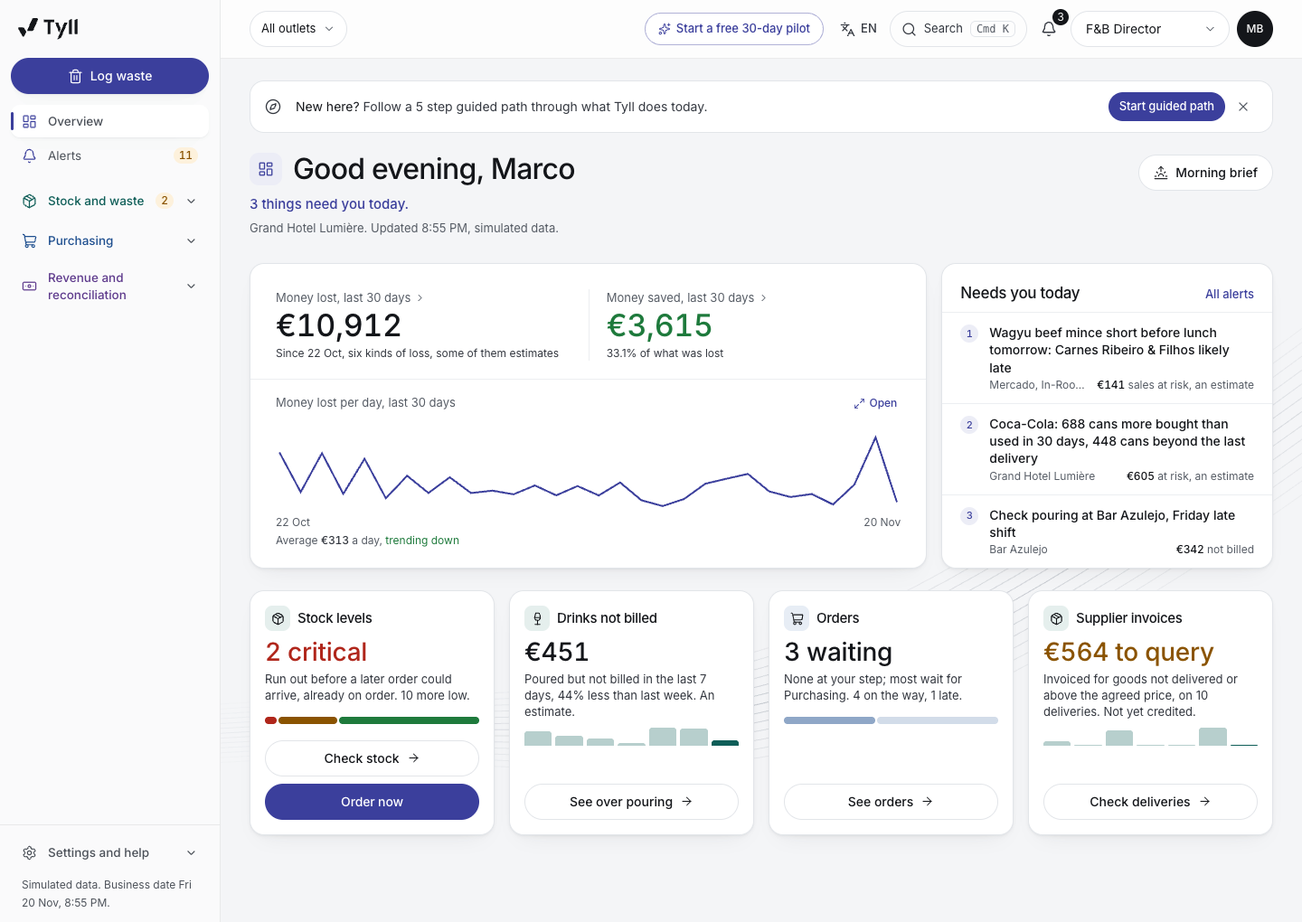
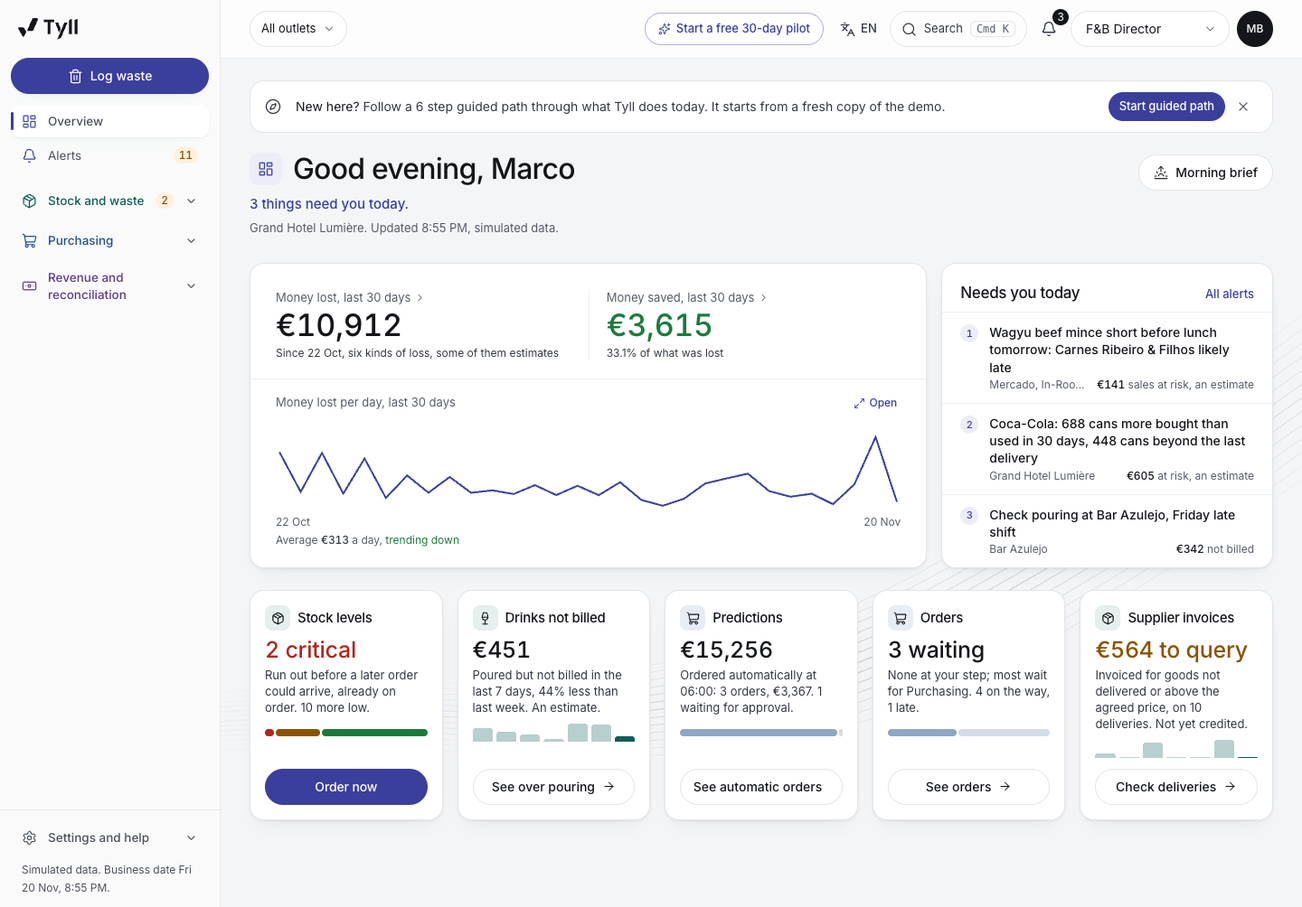
Demo polish: one even row of Overview cards, Recipes and costs in tabs, phone cards for expiry and stock take review, sending before receiving, demo shortcut to approve as the next person, guided path from a fresh copy, new screenshots

diff --git a/src/components/stock/stock-takes.tsx b/src/components/stock/stock-takes.tsx
@@ -18,6 +18,8 @@ const STATUS: Record<StockTakeView["status"], { label: string; tone: "neutral" |
   counting: { label: "Counting", tone: "ink" }, submitted: { label: "Waiting for approval", tone: "warn" }, approved: { label: "Approved, stock adjusted", tone: "pos" }, rejected: { label: "Rejected, stock unchanged", tone: "neg" },
 };
 const signed = (n: number, money: (n: number) => string) => (n > 0 ? `+${money(n)}` : n < 0 ? money(n) : money(0));
+/** A line's value: whole euros, with cents under €10 so a small difference never reads as "−€0". */
+const lineValue = (n: number, currency: string) => { const m = (x: number) => fmtMoney(x, currency as "EUR", Math.abs(n) < 10 ? { decimals: true } : undefined); return n > 0 ? `+${m(n)}` : m(n); };
 
 function StartDrawer({ propertyId, onClose }: { propertyId: string; onClose: () => void }) {
   const router = useRouter();
@@ -104,12 +106,26 @@ function Detail({ id }: { id: string }) {
       </Panel>
       <Panel title="Variance by item" action={<Segmented label="Show" size="sm" value={only} onChange={setOnly} options={[{ value: "diff", label: "Differences" }, { value: "all", label: "Every counted item" }]} />} flush>
         {lines.length === 0 ? <div className="p-6"><EmptyState title="No differences">Every counted item matches the system figure.</EmptyState></div> : (
-          <TableWrap>
+          <>
+          <ul className="divide-y divide-hair md:hidden">
+            {lines.map((l) => { const g = ingredientById[l.ingredientId]; const rv = t.review[l.ingredientId]; return (
+              <li key={`m-${l.ingredientId}`} className={cn("px-4 py-3", rv?.large && "bg-warn-soft/50")}>
+                <div className="flex items-start justify-between gap-3">
+                  <span className="text-[15px] font-medium text-ink">{g.name}{rv?.large && <Badge tone="warn" className="ms-2 !py-0">Large</Badge>}</span>
+                  <span className={cn("num shrink-0 font-medium", l.value < 0 ? "text-neg" : "text-ink")}>{lineValue(l.value, t.currency)}</span>
+                </div>
+                <p className="num mt-0.5 text-[13px] text-graphite">Expected {fmtQty(l.system, g.unit)}, counted {fmtQty(l.counted ?? 0, g.unit)}, {l.diff > 0 ? "+" : l.diff < 0 ? "−" : ""}{fmtQty(Math.abs(l.diff), g.unit)}</p>
+                {rv?.reason && <p className="mt-1 text-[13px] text-graphite">{rv.reason}</p>}
+              </li>
+            ); })}
+          </ul>
+          <TableWrap className="hidden md:block">
             <table className="w-full min-w-[1000px] text-table">
               <thead><tr><Th>Item</Th><Th align="right">Expected</Th><Th align="right">Counted</Th><Th align="right">Difference</Th><Th align="right">Value</Th><Th>Likely reason, to check</Th><Th>Counted by</Th></tr></thead>
-              <tbody>{lines.map((l) => { const g = ingredientById[l.ingredientId]; const ln = t.lines.find((x) => x.ingredientId === l.ingredientId)!; const rv = t.review[l.ingredientId]; return <tr key={l.ingredientId} className={cn(rowClass, rv?.large && "bg-warn-soft/50")}><Td><span className="text-ink">{g.name}</span>{rv?.large && <Badge tone="warn" className="ms-2 !py-0">Large</Badge>}<span className="block text-xs text-steel">{l.group}</span></Td><Td align="right">{fmtQty(l.system, g.unit)}</Td><Td align="right">{fmtQty(l.counted ?? 0, g.unit)}</Td><Td align="right" className={l.diff < 0 ? "text-neg" : undefined}>{l.diff > 0 ? "+" : l.diff < 0 ? "−" : ""}{fmtQty(Math.abs(l.diff), g.unit)}</Td><Td align="right" className={cn("font-medium", l.value < 0 ? "text-neg" : "text-ink")}>{signed(l.value, money)}</Td><Td className="max-w-[300px] text-[13px] text-graphite">{rv?.reason}</Td><Td className="text-xs text-steel">{ln.by ? personName(ln.by) : ""}{ln.method === "scan" ? ", scanned" : ""}</Td></tr>; })}</tbody>
+              <tbody>{lines.map((l) => { const g = ingredientById[l.ingredientId]; const ln = t.lines.find((x) => x.ingredientId === l.ingredientId)!; const rv = t.review[l.ingredientId]; return <tr key={l.ingredientId} className={cn(rowClass, rv?.large && "bg-warn-soft/50")}><Td><span className="text-ink">{g.name}</span>{rv?.large && <Badge tone="warn" className="ms-2 !py-0">Large</Badge>}<span className="block text-xs text-steel">{l.group}</span></Td><Td align="right">{fmtQty(l.system, g.unit)}</Td><Td align="right">{fmtQty(l.counted ?? 0, g.unit)}</Td><Td align="right" className={l.diff < 0 ? "text-neg" : undefined}>{l.diff > 0 ? "+" : l.diff < 0 ? "−" : ""}{fmtQty(Math.abs(l.diff), g.unit)}</Td><Td align="right" className={cn("font-medium", l.value < 0 ? "text-neg" : "text-ink")}>{lineValue(l.value, t.currency)}</Td><Td className="max-w-[300px] text-[13px] text-graphite">{rv?.reason}</Td><Td className="text-xs text-steel">{ln.by ? personName(ln.by) : ""}{ln.method === "scan" ? ", scanned" : ""}</Td></tr>; })}</tbody>
             </table>
           </TableWrap>
+          </>
         )}
         <Note className="px-6 py-4">A difference is something to check: a delivery not recorded, waste not logged, a recipe that does not match, or stock that left the store. It is not proof of how it happened.</Note>
       </Panel>

diff --git a/src/components/shell/early-access.tsx b/src/components/shell/early-access.tsx
@@ -33,9 +33,9 @@ export function WhatsNew({ open, onClose }: { open: boolean; onClose: () => void
 export const GUIDED_PATH = [
   { href: "/forecast", userId: "u-fnb", title: "Predictions", text: "What to order before it runs out, worked out by Tyll's own model from sales, bookings, events and hotel occupancy, with the reasoning beside every quantity. No AI chooses a quantity. Deliveries likely to come too late show here too." },
   { href: "/stock", userId: "u-chef", title: "Critical stock, then Order now", text: "What runs out before a later order could arrive. Items already on this morning's order say On order; for a low item, press Order now: the suggested quantity from the usual supplier, sent for approval." },
-  { href: "/forecast?tab=approvals", userId: "u-buy", title: "Approval, sending and the supplier's answer", text: "Approve an order as purchasing; the controller and the F&B director sign their steps. Once fully approved it goes to the supplier on its own, by email or its ordering system. Douro Cellars' system times out once and a retry is safe; Mercearia Lusa answers with less chocolate, for you to accept." },
+  { href: "/forecast?tab=approvals", userId: "u-buy", title: "Approval, sending and the supplier's answer", text: "Open an order waiting for approval and approve it as purchasing; \"Approve as\" signs the next steps as the controller and the F&B director, in the demo only. Once fully approved it goes to the supplier on its own. Douro Cellars' system times out once and a retry is safe; Mercearia Lusa answers with less chocolate, for you to accept." },
   { href: "/stock?tab=takes", userId: "u-fnb", title: "Stock count review", text: "This morning's stock take waits for you: expected against counted, the difference in units and euros, a likely reason for each, large ones highlighted. Approve it, or send it back." },
-  { href: "/stock?tab=recipes", userId: "u-chef", title: "Menu from Simphony", text: "Synced at 06:00: two new dishes, a price change and a dish taken off. Check the suggested recipe for a new dish and confirm it. Until then it carries a standard cost." },
+  { href: "/stock?tab=recipes&view=new", userId: "u-chef", title: "Menu from Simphony", text: "Synced at 06:00: two new dishes, a price change and a dish taken off. Check the suggested recipe for a new dish and confirm it. Until then it carries a standard cost." },
   { href: "/stock?tab=expiry", userId: "u-chef", title: "Tonight's special", text: "Sea bass from a cancelled lunch expires tomorrow. Make it tonight's special, move it to another outlet, or log it as waste: the restaurant manager is told." },
 ] as const;
 
@@ -46,8 +46,11 @@ const read = (): string | null => { try { return localStorage.getItem(KEY); } ca
 const write = (s: PathState) => { try { if (s === null) localStorage.removeItem(KEY); else localStorage.setItem(KEY, JSON.stringify(s)); } catch { /* private window */ } listeners.forEach((l) => l()); };
 const parse = (raw: string | null): PathState => { try { return raw ? JSON.parse(raw) : null; } catch { return null; } };
 
-/** Starts (or restarts) the guided path from its first stop. */
-export function startGuidedPath() {
+/** Starts (or restarts) the guided path from its first stop. From the Overview's offer it starts on a fresh copy of the
+ * demo, so every story is where it starts: the orders and the stock take waiting, the new dishes and the sea bass still to
+ * decide. From Help it keeps what the visitor has done. */
+export async function startGuidedPath(fresh = false) {
+  if (fresh) await api("/api/demo/reset", { method: "POST", body: { scope: "all", confirm: true } }).catch(() => undefined);
   return openStep(0);
 }
 
@@ -79,9 +82,9 @@ export function GuidedPath({ offer = false }: { offer?: boolean }) {
     return (
       <div className="no-print mb-5 flex flex-wrap items-center gap-x-4 gap-y-2 rounded-2xl border border-line bg-paper px-4 py-3">
         <Compass size={18} strokeWidth={1.6} className="shrink-0 text-graphite" aria-hidden />
-        <p className="min-w-[200px] flex-1 text-sm text-graphite"><span className="text-ink">New here?</span> Follow a {GUIDED_PATH.length} step guided path through what Tyll does today.</p>
+        <p className="min-w-[200px] flex-1 text-sm text-graphite"><span className="text-ink">New here?</span> Follow a {GUIDED_PATH.length} step guided path through what Tyll does today. It starts from a fresh copy of the demo.</p>
         <span className="flex items-center gap-1">
-          <Button size="sm" variant="primary" onClick={() => go(0)}>Start guided path</Button>
+          <Button size="sm" variant="primary" onClick={() => void startGuidedPath(true)}>Start guided path</Button>
           <button type="button" onClick={close} aria-label="Close the guided path offer" className="rounded-full p-2 text-steel hover:bg-mist hover:text-ink"><X size={16} /></button>
         </span>
       </div>

diff --git a/src/components/forecast/approvals.tsx b/src/components/forecast/approvals.tsx
@@ -19,6 +19,9 @@ import { type Queue, inQueue, openingQueue } from "@/lib/domain/order-queues";
 import { CHANNEL_LABEL, SEND_LABEL, sendKey, sendState } from "@/lib/domain/dispatch";
 import { MATCH_FLAG, PO_STATUS, orderTotals, outstanding, packsText, poStatus } from "@/lib/domain/procurement";
 
+/** Who the demo shortcut approves as, for each step (the public demo's people). */
+const SIGNER: Partial<Record<RequestStatus, string>> = { purchasing: "Nadia Rahman, purchasing", accounting: "Priya Raman, financial controller", fnb: "Marco Bellini, F&B director", manager: "the general manager" };
+
 export const STATUS: Record<RequestStatus, { label: string; tone: "neutral" | "warn" | "pos" | "neg" | "ink" }> = {
   draft: { label: "Draft", tone: "neutral" },
   purchasing: { label: "Waiting for purchasing", tone: "warn" },
@@ -455,7 +458,12 @@ function RequestView({ id, base }: { id: string; base: string }) {
       <div className="flex flex-wrap items-center gap-3">
         <Button variant="ghost" size="sm" onClick={() => router.push(base)}><ArrowLeft size={15} /> All requests</Button>
       </div>
-      {step ? <NextStep step={step} /> : waitingFor && <p role="status" className="rounded-panel border border-line bg-cloud px-5 py-3 text-sm text-graphite"><span className="font-medium text-ink">{waitingFor}.</span> Nothing is needed from you now; you will be notified of the decision.</p>}
+      {step ? <NextStep step={step} /> : waitingFor && (
+        <div role="status" className="flex flex-wrap items-center justify-between gap-3 rounded-panel border border-line bg-cloud px-5 py-3 text-sm text-graphite">
+          <p><span className="font-medium text-ink">{waitingFor}.</span> Nothing is needed from you now; you will be notified of the decision.</p>
+          {data.demoShortcut && <Button size="sm" disabled={busy} onClick={() => void run(`/api/purchasing/${r.id}`, { action: "demo-approve" }, `Approved as ${SIGNER[r.status] ?? "the next person"} (demo shortcut).`)}>Approve as {SIGNER[r.status] ?? "the next person"} (demo)</Button>}
+        </div>
+      )}
       <Panel
         title={<span className="flex flex-wrap items-center gap-3"><span className="num">{r.id}</span><OrderBadge r={r} />{r.poNumber && <Badge>{r.poNumber}</Badge>}{r.auto && <Badge tone="accent">Automatic</Badge>}</span>}
         description={`${where(r)}, ${propertyById[r.propertyId].name}. ${r.deliveryDate ? `Delivery ${fmtDate(r.deliveryDate, true)}` : `For ${fmtDate(r.period.from, true)}${r.period.to !== r.period.from ? ` to ${fmtDate(r.period.to, true)}` : ""}`}. ${r.auto ? `Created by automatic ordering on ${personName(r.createdBy)}'s rules.` : `Raised by ${personName(r.createdBy)}.`}`}
@@ -547,6 +555,8 @@ function RequestView({ id, base }: { id: string; base: string }) {
         })()}
       </Panel>
 
+      {/* Sending comes before receiving: how and when the order reached the supplier, and the supplier's answer. */}
+      <div id="order-send" className="scroll-mt-24 empty:hidden"><SendPanel d={data} user={user} run={run} busy={busy} /></div>
       <div className="grid grid-cols-1 items-start gap-5 xl:grid-cols-[1fr_1fr]">
         {(reviewing || author || mayReceive) && (
           <div id="order-action" className="scroll-mt-24"><Panel title={author ? "Your request" : mayReceive ? "Record the delivery" : stage === "purchasing" ? "Purchasing review" : stage === "accounting" ? "Accounting review" : stage === "fnb" ? `${data.policy.fnbLabel} approval` : `${data.policy.managerLabel} approval`}>
@@ -597,7 +607,6 @@ function RequestView({ id, base }: { id: string; base: string }) {
           </Panel></div>
         )}
 
-        <div id="order-send" className="scroll-mt-24 empty:hidden"><SendPanel d={data} user={user} run={run} busy={busy} /></div>
         {showMoney && <div id="order-match" className="scroll-mt-24 empty:hidden xl:col-span-2"><MatchPanel d={data} user={user} run={run} busy={busy} /></div>}
         <Receipts r={r} />
         {showMoney && (can(user, "purchase.review") || can(user, "purchase.approveFinance") || can(user, "purchase.approveFnb") || can(user, "purchase.approveManager")) && (

diff --git a/src/components/home/home.tsx b/src/components/home/home.tsx
@@ -5,7 +5,7 @@ import { awaitingDelivery } from "@/lib/domain/procurement";
 import { useAutoOrder, useRequests } from "@/lib/plan-hooks";
 import { featureOn } from "@/lib/features";
 import Link from "next/link";
-import { OrderNowButton } from "@/components/stock/order-now";
+import { OrderNowButton, orderable } from "@/components/stock/order-now";
 import { ArrowRight, ChevronRight, Sunrise } from "lucide-react";
 import { useMemo, useState, type ReactNode } from "react";
 import { MODULE_ICON, MODULE_TONE } from "@/components/theme";
@@ -64,15 +64,22 @@ function Card({ module, title, number, tone, line, cta, href, picture, loading, 
           <div className="space-y-2 pt-2" aria-hidden><Skeleton className="h-8 w-2/3" /><Skeleton className="h-4 w-full" /></div>
         ) : (
           <>
-            <p className={cn("num mt-0.5 whitespace-nowrap text-[24px] font-medium leading-tight tracking-[-0.02em] sm:mt-1.5 sm:text-[28px]", tone ? TONE[tone] : "text-ink")}>{number}</p>
-            <p className="text-[13px] leading-snug text-graphite sm:mt-1 sm:min-h-[2.5em]">{line}</p>
+            <p className={cn("num mt-0.5 whitespace-nowrap text-[24px] font-medium leading-tight tracking-[-0.02em] sm:mt-1.5 sm:text-[28px] xl:text-[25px]", tone ? TONE[tone] : "text-ink")}>{number}</p>
+            <p className="text-[13px] leading-snug text-graphite sm:mt-1 sm:min-h-[3.9em]">{line}</p>
             {picture && <div className="mt-2 hidden sm:block">{picture}</div>}
           </>
         )}
       </div>
-      {/* The whole card opens the page, and the button says where it goes. */}
-      <Link href={href} className={cn(linkButton("secondary"), "shrink-0 px-3 text-[13px] after:absolute after:inset-0 after:rounded-panel after:content-[''] sm:mt-3 sm:w-full sm:px-4 sm:text-sm")}>{cta} <ArrowRight size={15} className="hidden sm:block" aria-hidden /></Link>
-      {action && <div className="relative z-10 shrink-0 sm:mt-2 [&>button]:w-full">{action}</div>}
+      {/* The whole card opens the page, and the button says where it goes. A card with an action of its own (Order now)
+          shows that action in the button's place, so every card has one button at the same height. */}
+      {action ? (
+        <>
+          <Link href={href} aria-label={`${title}: ${cta}`} className="absolute inset-0 rounded-panel focus-visible:outline-2" />
+          <div className="relative z-10 shrink-0 sm:mt-3 [&>button]:w-full [&>button]:sm:h-10">{action}</div>
+        </>
+      ) : (
+        <Link href={href} className={cn(linkButton("secondary"), "shrink-0 px-3 text-[13px] after:absolute after:inset-0 after:rounded-panel after:content-[''] sm:mt-3 sm:w-full sm:px-4 sm:text-sm")}>{cta} <ArrowRight size={15} className="hidden sm:block" aria-hidden /></Link>
+      )}
     </section>
   );
 }
@@ -295,7 +302,7 @@ export function Home() {
           module="stock" title="Stock levels" picture={<Split parts={[{ n: critical.length, className: "bg-neg" }, { n: low.length, className: "bg-warn" }, { n: items.length - critical.length - low.length, className: "bg-pos" }]} />} number={critical.length ? `${critical.length} critical` : "Nothing urgent"} tone={critical.length ? "neg" : "pos"} loading={!plan && loading}
           line={critical.length ? `${critical.length === 1 ? "Runs" : "Run"} out before a later order could arrive${critical.every((i) => i.nextQty === 0 && i.incoming > 0) ? ", already on order" : ""}. ${low.length} more low.` : `${low.length} low and ${items.length - low.length} fine.`}
           cta="Check stock" href="/stock"
-          action={plan ? <OrderNowButton items={[...critical, ...low]} propertyId={plan.propertyId} variant="primary" size="md" /> : undefined}
+          action={plan && can(user, "purchase.create") && orderable([...critical, ...low]).length ? <OrderNowButton items={[...critical, ...low]} propertyId={plan.propertyId} variant="primary" size="md" /> : undefined}
         />
         <Card
           module="drinks" title="Drinks not billed" picture={<Bars values={pourDaily.slice(-7).map((d) => d.value)} />} number={money(lostWeek.drinks, { compact: true })}

diff --git a/src/components/stock/recipes.tsx b/src/components/stock/recipes.tsx
@@ -2,7 +2,8 @@
 import Link from "next/link";
 import { ChevronDown } from "lucide-react";
 import { useState } from "react";
-import { Delta, Note, Panel, TableWrap, Td, Th, cn, rowClass } from "@/components/ui";
+import { Delta, Note, Panel, Skeleton, TableWrap, Tabs, Td, Th, cn, rowClass } from "@/components/ui";
+import { useRouter, useSearchParams } from "next/navigation";
 import { MENU_ITEMS, ingredientById } from "@/lib/data/catalog";
 import { basePriceAt, ingredientCostAt, itemCostAt, recipeBreakdown } from "@/lib/domain/pricing";
 import { useCtx } from "@/lib/hooks";
@@ -12,8 +13,13 @@ import { IngredientPrices, useIngredientPrices } from "./ingredient-prices";
 
 const aed = (n: number) => fmtMoney(n, "EUR", { decimals: true });
 
+const VIEWS = ["recipes", "new", "prices", "modifiers"] as const;
+type View = (typeof VIEWS)[number];
+
 export function Recipes() {
   const ctx = useCtx();
+  const params = useSearchParams();
+  const router = useRouter();
   const [open, setOpen] = useState<string | null>("burger");
   const { menu } = useMenu();
   const recipes = MENU_ITEMS.filter((m) => m.recipe && !menu?.archived[m.id]);
@@ -23,11 +29,28 @@ export function Recipes() {
   const prices = useIngredientPrices();
   const unit = (g: string) => ctx.overrides.find((o) => o.id === g)?.value ?? prices?.prices.find((p) => p.ingredientId === g)?.wac ?? ingredientCostAt(g, DEMO_TODAY, ctx.overrides);
 
+  // One part at a time: the recipes, the new dishes from the till, ingredient prices and modifiers. The address keeps the
+  // part (&view=), so the chef's alert opens straight on the new dishes.
+  const asked = params.get("view");
+  const [picked, setPicked] = useState<View | null>(null);
+  const waiting = menu?.newDishes.filter((d) => d.status === "needs_recipe").length ?? 0;
+  const view: View = picked ?? (VIEWS.includes(asked as View) ? (asked as View) : "recipes");
+  const choose = (v: View) => { setPicked(v); const q = new URLSearchParams(params.toString()); q.set("view", v); router.replace(`/stock?${q.toString()}`, { scroll: false }); };
+
   return (
     <div className="space-y-5">
-    {menu && <MenuSyncLine menu={menu} />}
-    {menu && <NewDishes menu={menu} />}
-    <div className="grid grid-cols-1 items-start gap-5 xl:grid-cols-[1.25fr_1fr]">
+    {menu && <MenuSyncLine menu={menu} onNewDishes={() => choose("new")} />}
+    <Tabs value={view} onChange={choose} tabs={[
+      { value: "recipes", label: "Recipes" },
+      { value: "new", label: "New dishes", ...(waiting ? { count: waiting } : {}) },
+      { value: "prices", label: "Ingredient prices" },
+      { value: "modifiers", label: "Modifiers" },
+    ]} />
+    {view === "new" && (menu ? <NewDishes menu={menu} /> : <Skeleton className="h-48 w-full" />)}
+    {view === "prices" && <IngredientPrices />}
+    {view === "modifiers" && (menu ? <Modifiers menu={menu} /> : <Skeleton className="h-48 w-full" />)}
+    {view === "recipes" && (
+    <div>
       <Panel title="Recipes for the top 20 items" description="Cost per portion at today's ingredient prices, valued at weighted average cost from supplier invoices, against the selling price. Choose a recipe to see what goes into it." flush>
         <TableWrap>
           <table className="w-full min-w-[640px] text-sm">
@@ -78,10 +101,8 @@ export function Recipes() {
         </TableWrap>
         <Note className="px-6 py-4">Shown in the group price list (euros). Each outlet applies its own price level and each property its own cost level, which Menu performance on the Overview takes into account. The other six menu items use a standard cost until their recipes are built.</Note>
       </Panel>
-
-      <IngredientPrices />
     </div>
-    {menu && <Modifiers menu={menu} />}
+    )}
     </div>
   );
 }

diff --git a/src/components/stock/expiring.tsx b/src/components/stock/expiring.tsx
@@ -39,7 +39,23 @@ export function Expiring({ propertyId }: { propertyId: string }) {
           />
           <Panel title="Batches by use-by date" description="The first expiring batch of each item is the one to use first." action={<Segmented label="Within" size="sm" value={days} onChange={setDays} options={[{ value: "1", label: "1 day" }, { value: "2", label: "2 days" }, { value: "3", label: "3 days" }, { value: "7", label: "7 days" }]} />} flush>
             {data.rows.length === 0 ? <div className="p-6"><EmptyState title="Nothing expires in this window">Every batch on the shelf keeps longer.</EmptyState></div> : (
-              <TableWrap>
+              <>
+              {/* On a phone each batch is a card; the table is for wider screens. */}
+              <ul className="divide-y divide-hair md:hidden">
+                {data.rows.map((r) => (
+                  <li key={`m-${r.ingredientId}|${r.batch}|${r.expiry}`} className={cn("px-4 py-3", r.daysLeft < 0 && "bg-neg-soft/40")}>
+                    <div className="flex items-start justify-between gap-3">
+                      <span className="text-[15px] font-medium text-ink">{r.name}</span>
+                      <Badge tone={KIND[r.action.kind].tone}>{KIND[r.action.kind].label}</Badge>
+                    </div>
+                    <p className="mt-0.5 text-[13px] text-graphite"><span className={cn(r.daysLeft < 0 ? "font-medium text-neg" : r.daysLeft <= 1 ? "font-medium text-warn" : "text-ink")}>{when(r.daysLeft)}</span>, {fmtNum(r.left, r.left % 1 ? 1 : 0)} {r.unit}, {money(r.value)}</p>
+                    <p className="text-xs text-steel">Batch <span className="num">{r.batch}</span>. {r.useBy === "label" ? "From the label" : `Received plus ${r.shelfLifeDays} days shelf life`}</p>
+                    <p className="mt-1 text-[13px] text-graphite">{r.action.text}</p>
+                    <ExpiryActions r={r} propertyId={propertyId} />
+                  </li>
+                ))}
+              </ul>
+              <TableWrap className="hidden md:block">
                 <table className="w-full min-w-[920px] text-table">
                   <thead><tr><Th>Item</Th><Th>Batch</Th><Th>Use by</Th><Th align="right">Left</Th><Th align="right">Value</Th><Th>Suggested</Th></tr></thead>
                   <tbody>
@@ -56,6 +72,7 @@ export function Expiring({ propertyId }: { propertyId: string }) {
                   </tbody>
                 </table>
               </TableWrap>
+              </>
             )}
             <Note className="px-6 py-4">Batches come from deliveries: the use-by date recorded on receiving, or the item&rsquo;s shelf life from the delivery day. Stock is used first expiring, first out, so the batches still on the shelf are the ones that expire last. Suggestions follow fixed rules: normal use first, then a transfer to the outlet that uses it most, then a special, then the staff meal. Values at the hotel&rsquo;s valuation method. Simulated data.{data.noBatchItems ? ` ${data.noBatchItems} fresh ${data.noBatchItems === 1 ? "item has" : "items have"} more on the shelf than the recorded batches: check those by hand.` : ""}</Note>
           </Panel>

diff --git a/src/lib/server/purchasing.ts b/src/lib/server/purchasing.ts
@@ -859,6 +859,32 @@ type Decision = "approve" | "changes" | "reject";
  * name keeps the rule, so they may approve it like anyone else; they still sign one step only. */
 const raisedBy = (r: PurchaseRequest, user: User) => r.createdBy === user.id && !r.auto;
 
+/** The person a demo shortcut approves as, for each step: the public demo's purchasing manager, financial controller,
+ * F&B director and general manager. */
+const DEMO_SIGNERS: Record<string, string[]> = { purchasing: ["u-buy"], accounting: ["u-fc"], fnb: ["u-fnb", "u-gm"], manager: ["u-gm"] };
+
+/**
+ * Public demo only: approve the step an order waits at as the person who holds that step, so the whole chain can be shown
+ * without switching person. The step's own rules still run for that person (their permission, nobody approves their own
+ * order, one step per person), and the history says it was the demo shortcut and who pressed it.
+ */
+export function demoApproveNext(user: User, id: string, enabled: boolean): Result<{ request: PurchaseRequest; as: string }> {
+  if (!enabled) return fail(403, "The demo shortcut is only in the public demo.");
+  const r = loadStore().requests.find((x) => x.id === id);
+  if (!r || !canSee(user, r)) return fail(404, "This request is not available.");
+  const step = r.status;
+  const candidates = DEMO_SIGNERS[step];
+  if (!candidates) return fail(409, "This order is not waiting for an approval.");
+  let last: Result<{ request: PurchaseRequest }> = fail(409, "Nobody in the demo can sign this step.");
+  for (const signerId of candidates) {
+    const signer = userById[signerId];
+    if (!signer || signer.id === user.id) continue;
+    last = actOnRequest(signer, id, { action: step, decision: "approve", comment: `Demo shortcut, pressed by ${user.name}.` });
+    if (last.ok) return { ok: true, request: last.request, as: signer.id };
+  }
+  return last.ok ? fail(409, "Nobody in the demo can sign this step.") : last;
+}
+
 /** Every step of the workflow. Each checks the role, the stage and the user's access to the hotel. */
 export function actOnRequest(user: User, id: string, body: Record<string, unknown>): Result<{ request: PurchaseRequest }> {
   const r = loadStore().requests.find((x) => x.id === id);

diff --git a/src/app/api/purchasing/[id]/route.ts b/src/app/api/purchasing/[id]/route.ts
@@ -1,7 +1,8 @@
 import type { NextRequest } from "next/server";
 import { APPROVAL_POLICY, approvalSteps, quotesFor } from "@/lib/data/purchasing-rules";
 import { guard, json, sameOrigin } from "@/lib/server/guard";
-import { actOnRequest, budgetFor, canSee, requestTotal, requestsFor } from "@/lib/server/purchasing";
+import { actOnRequest, budgetFor, canSee, demoApproveNext, requestTotal, requestsFor } from "@/lib/server/purchasing";
+import { publicDemo } from "@/lib/server/auth";
 import { closePurchaseOrder, decideSupplierChange, draftCredit, matchFor, recordPhoneOrder, sendApproved, sendCredit, sendPurchaseOrder, settingsOf, supplierAccount, updatePurchaseOrder } from "@/lib/server/procurement";
 import { orderTotals, poStatus } from "@/lib/domain/procurement";
 import { propertyById } from "@/lib/data/catalog";
@@ -27,6 +28,7 @@ export async function GET(req: NextRequest, { params }: Params) {
     steps: approvalSteps(r.propertyId, total),
     policy: APPROVAL_POLICY[r.propertyId],
     budget: budgetFor(r),
+    demoShortcut: publicDemo(),
     quotes: Object.fromEntries(r.lines.map((l) => [l.ingredientId, quotesFor(l.ingredientId, r.propertyId, DEMO_TODAY)])),
     poStatus: poStatus(r),
     totals: orderTotals(r.lines),
@@ -56,7 +58,7 @@ export async function POST(req: NextRequest, { params }: Params) {
   if (po) return po.ok ? json({ request: po.request }) : json({ error: po.error }, po.status);
   if (body.action === "credit") { const c = draftCredit(g.user, id); return c.ok ? json({ credit: c.credit }) : json({ error: c.error }, c.status); }
   if (body.action === "credit_send") { const c = sendCredit(g.user, id, String(body.creditId ?? "")); return c.ok ? json({ credit: c.credit }) : json({ error: c.error }, c.status); }
-  const r = actOnRequest(g.user, id, body);
+  const r = body.action === "demo-approve" ? demoApproveNext(g.user, id, publicDemo()) : actOnRequest(g.user, id, body);
   if (!r.ok) return json({ error: r.error }, r.status);
   // The last approval sends the order straight away, by the supplier's channel.
   // The last approval sends the order straight away, by the supplier's channel; the answer shows how that went.

diff --git a/src/lib/__tests__/radisson.test.ts b/src/lib/__tests__/radisson.test.ts
@@ -618,3 +618,36 @@ describe("Meal with no drink", () => {
     expect(MND.mealsWithNoDrink(userById["u-buy"]).ok).toBe(false);
   });
 });
+
+describe("Demo shortcut: approve as the next person", () => {
+  it("only in the public demo", () => {
+    const id = orderFor("u-chef", "salmon", 20);
+    expect(P.demoApproveNext(userById["u-chef"], id, false).ok).toBe(false);
+  });
+  it("signs each step as the person who holds it, with their rules, and says it was the shortcut", () => {
+    const id = orderFor("u-chef", "salmon", 200);
+    let r = P.demoApproveNext(userById["u-chef"], id, true);
+    if (!r.ok) throw new Error(r.error);
+    expect(r.as).toBe("u-buy");
+    expect(r.request.status).toBe("accounting");
+    expect(r.request.history.at(-1)).toMatchObject({ by: "u-buy", action: "Purchasing review approved", comment: `Demo shortcut, pressed by ${userById["u-chef"].name}.` });
+    r = P.demoApproveNext(userById["u-chef"], id, true);
+    if (!r.ok) throw new Error(r.error);
+    expect(r.as).toBe("u-fc");
+    while (["fnb", "manager"].includes(loadStore().requests.find((x) => x.id === id)!.status)) {
+      const n = P.demoApproveNext(userById["u-chef"], id, true);
+      if (!n.ok) throw new Error(n.error);
+    }
+    expect(loadStore().requests.find((x) => x.id === id)!.status).toBe("approved");
+    expect(P.demoApproveNext(userById["u-chef"], id, true).ok).toBe(false);
+  });
+  it("never lets the person who raised an order approve it through the shortcut: the general manager signs for the F&B director", () => {
+    const id = orderFor("u-fnb", "salmon", 200);
+    P.demoApproveNext(userById["u-chef"], id, true);
+    P.demoApproveNext(userById["u-chef"], id, true);
+    expect(loadStore().requests.find((x) => x.id === id)!.status).toBe("fnb");
+    const r = P.demoApproveNext(userById["u-chef"], id, true);
+    if (!r.ok) throw new Error(r.error);
+    expect(r.as).toBe("u-gm");
+  });
+});

diff --git a/src/components/stock/menu-sync.tsx b/src/components/stock/menu-sync.tsx
@@ -28,7 +28,7 @@ export function useMenu() {
 }
 
 /** "Menu synced from Simphony at 06:00: 2 new dishes, 1 price change, 1 dish removed", with what each change was. */
-export function MenuSyncLine({ menu }: { menu: MenuOut }) {
+export function MenuSyncLine({ menu, onNewDishes }: { menu: MenuOut; onNewDishes?: () => void }) {
   if (!menu.sync) return null;
   const c = menu.changes;
   const waiting = menu.newDishes.filter((d) => d.status === "needs_recipe").length;
@@ -38,7 +38,7 @@ export function MenuSyncLine({ menu }: { menu: MenuOut }) {
         <div className="min-w-0">
           <p className="text-[15px] font-medium text-ink">{menu.sync.label}</p>
           <ul className="mt-1 space-y-0.5 text-[13px] text-graphite">
-            {c.addedNames.length > 0 && <li>New: {c.addedNames.join(", ")}.{waiting > 0 && <> <a href="#new-dishes" className="font-medium text-accent-ink underline-offset-4 hover:underline">{waiting === 1 ? "1 needs a recipe" : `${waiting} need a recipe`}</a></>}</li>}
+            {c.addedNames.length > 0 && <li>New: {c.addedNames.join(", ")}.{waiting > 0 && <> <button type="button" onClick={onNewDishes} className="font-medium text-accent-ink underline-offset-4 hover:underline">{waiting === 1 ? "1 needs a recipe" : `${waiting} need a recipe`}</button></>}</li>}
             {c.priceChanged.map((p) => <li key={p.itemId}>{p.name}: price {eur(p.from)} to {eur(p.to)}. Margins below use the new price.</li>)}
             {c.removed.map((r) => <li key={r.itemId}>{r.name}: no longer on the till, archived.</li>)}
           </ul>

diff --git a/src/lib/server/menu-sync.ts b/src/lib/server/menu-sync.ts
@@ -77,7 +77,7 @@ export async function ensureMenuSync(): Promise<MenuSyncShape | undefined> {
     x.menuSync = next;
     const waiting = next.newDishes.filter((d) => d.status === "needs_recipe");
     if (waiting.length) {
-      notify(x, { to: peopleWith("prep.plan", "lis", (u) => u.role === "chef" || u.role === "fnb_director"), type: "menu-new-dish", ref: `menu-${DEMO_TODAY}`, propertyId: "lis", title: `${waiting.length} new ${waiting.length === 1 ? "dish needs a recipe" : "dishes need a recipe"}`, body: `${waiting.map((d) => d.name).join(" and ")} came from Simphony at ${SIMPHONY_SYNC_TIME}. Until the recipe is confirmed, ${waiting.length === 1 ? "it is" : "they are"} costed at a standard cost.`, href: "/stock?tab=recipes#new-dishes" });
+      notify(x, { to: peopleWith("prep.plan", "lis", (u) => u.role === "chef" || u.role === "fnb_director"), type: "menu-new-dish", ref: `menu-${DEMO_TODAY}`, propertyId: "lis", title: `${waiting.length} new ${waiting.length === 1 ? "dish needs a recipe" : "dishes need a recipe"}`, body: `${waiting.map((d) => d.name).join(" and ")} came from Simphony at ${SIMPHONY_SYNC_TIME}. Until the recipe is confirmed, ${waiting.length === 1 ? "it is" : "they are"} costed at a standard cost.`, href: "/stock?tab=recipes&view=new" });
     }
     return next;
   });

diff --git a/src/lib/alert-feed.tsx b/src/lib/alert-feed.tsx
@@ -200,7 +200,7 @@ export function AlertFeedProvider({ children }: { children: ReactNode }) {
       out.push({
         id: `menu-${menu.sync.at}`, kind: "menu", rag: "amber", what: `${newDishes.length} new ${newDishes.length === 1 ? "dish needs a recipe" : "dishes need a recipe"}`,
         why: `${newDishes.map((d) => d.name).join(" and ")} came from Simphony at ${menu.sync.at.slice(11, 16)}. Until the recipe is confirmed, ${newDishes.length === 1 ? "it is" : "they are"} costed at a standard cost.`,
-        where: outletById["lis-terrace"].name, outletId: "lis-terrace", amount: null, amountWord: "", next: { label: "Confirm recipes", href: "/stock?tab=recipes#new-dishes" },
+        where: outletById["lis-terrace"].name, outletId: "lis-terrace", amount: null, amountWord: "", next: { label: "Confirm recipes", href: "/stock?tab=recipes&view=new" },
       });
     }
     // Most urgent first, then the most money inside each level.
